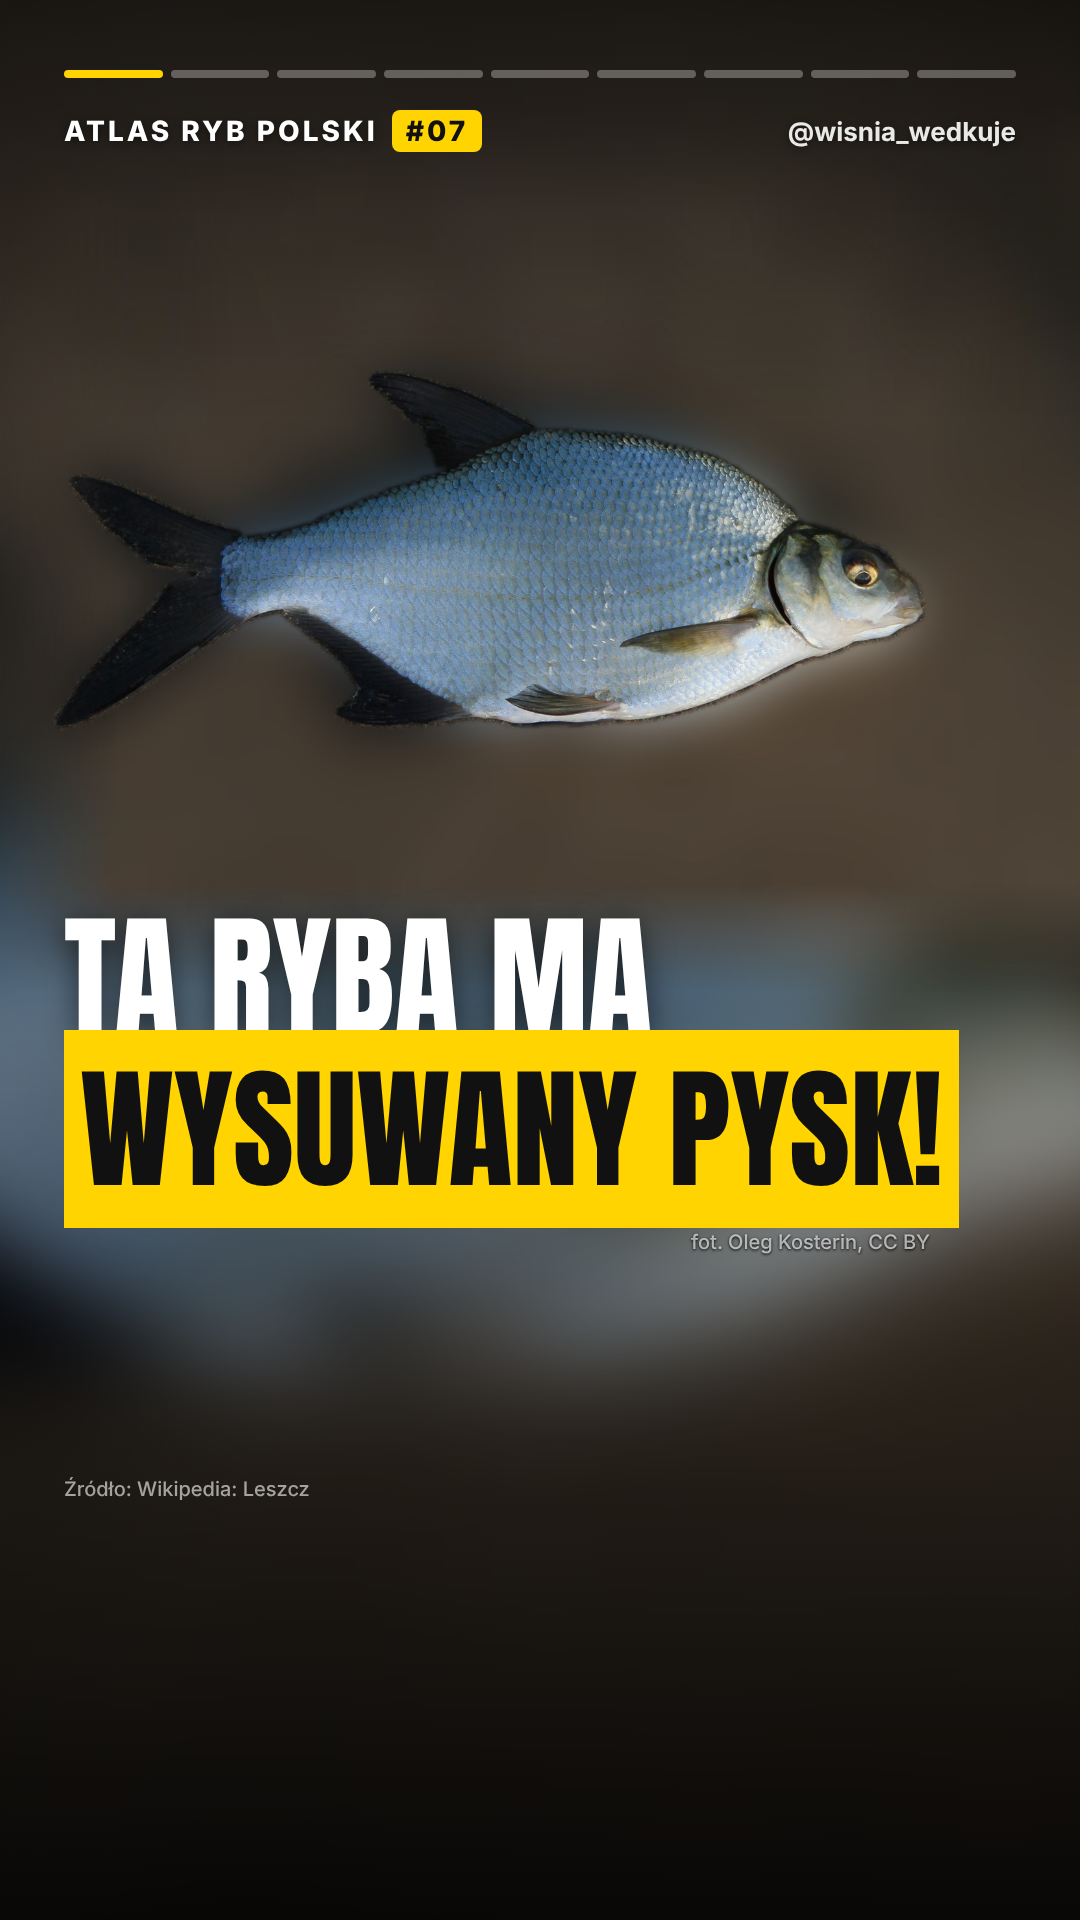
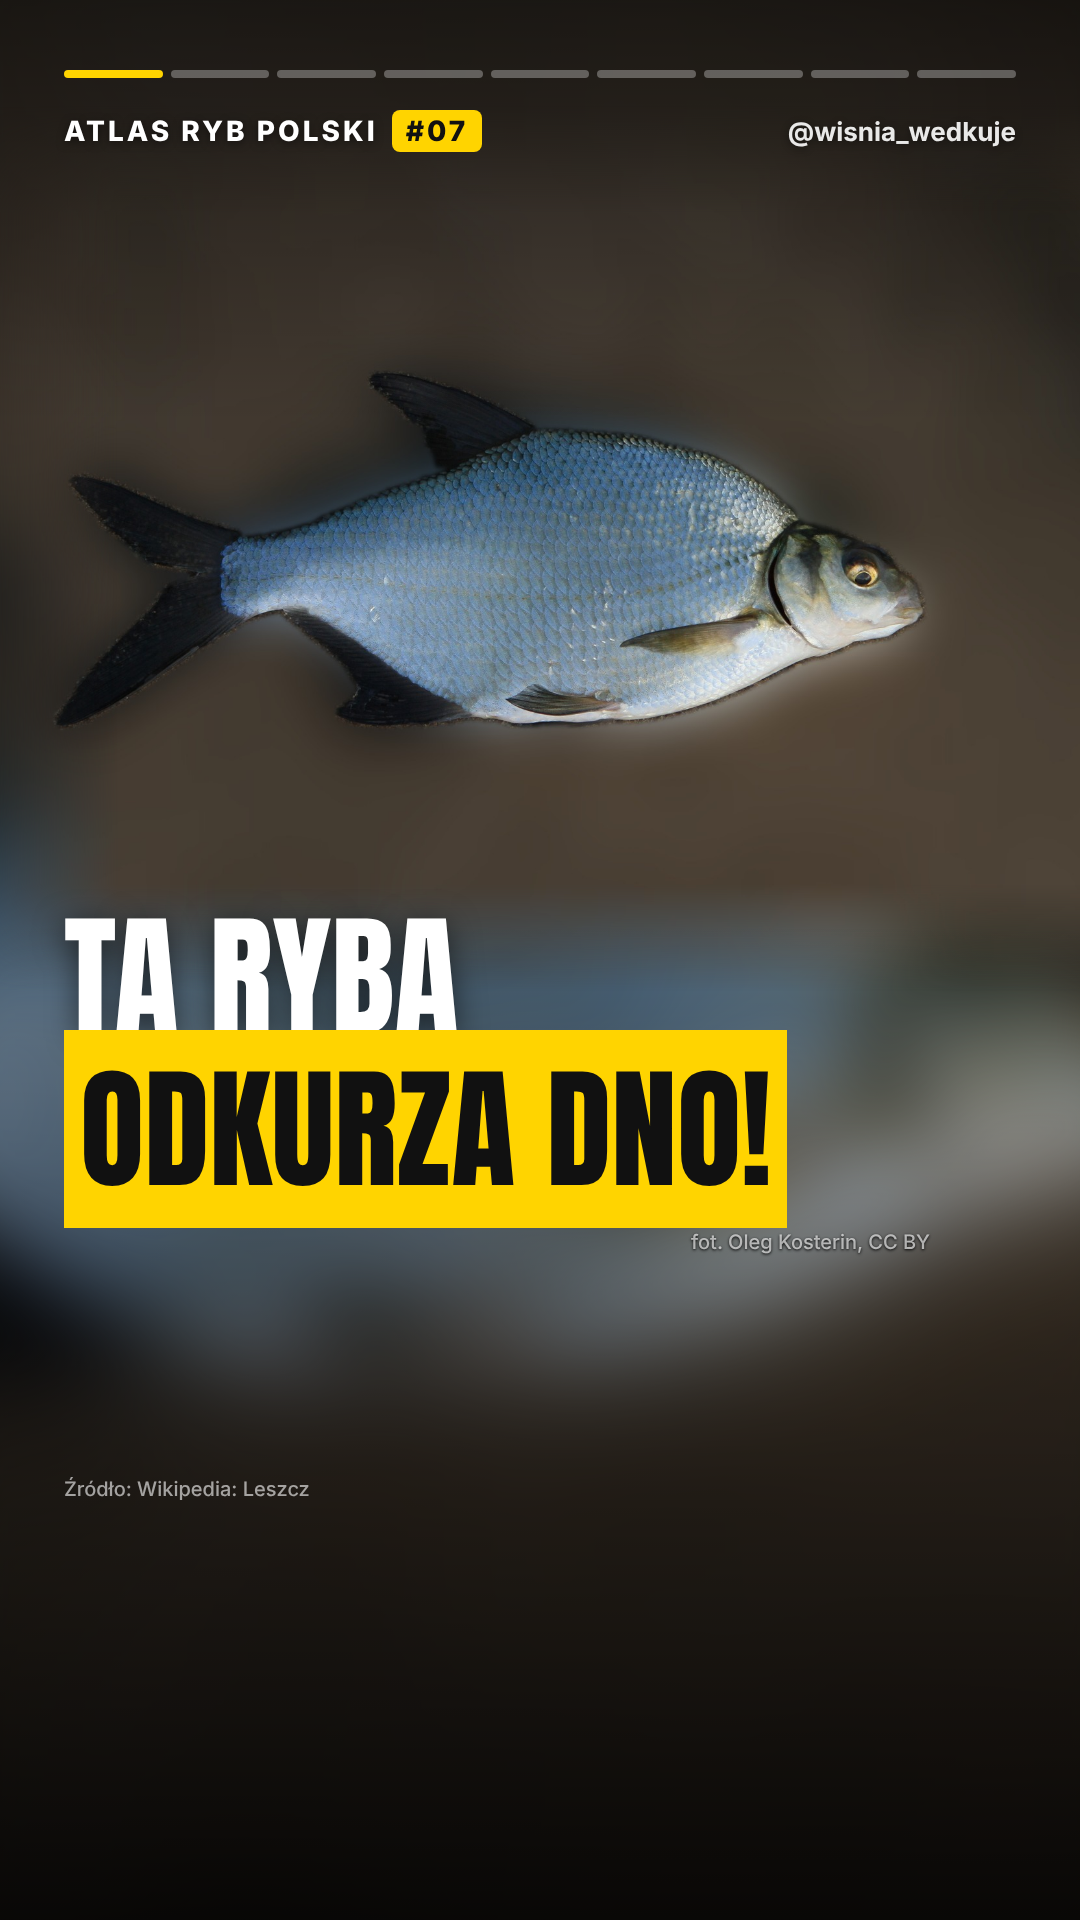
Makieta #07 leszcz: hook „odkurza dno”, ciekawostka o funkcji wysypki tarłowej
Claude-Session: https://claude.ai/code/session_01P9R5v2yPFHwMJVw1yZXoPw

Changed region(s): [[0.0611, 0.4688, 0.8861, 0.6562]]

diff --git a/atlas/scenariusze/leszcz.md b/atlas/scenariusze/leszcz.md
@@ -3,18 +3,18 @@
 Głos: ElevenLabs „JA Paweł”, eleven_v4, jeden wariant. 159 słów.
 
 Warianty hooka (hook-writer):
-1. „Ta ryba ma wysuwany pysk!” (obraz + zaskoczenie) – **wybrany**: widoczna, łatwa do sprawdzenia cecha, ma źródło.
+1. „Ta ryba odkurza dno!” (obraz + zaskoczenie, wersja po uwagach użytkownika) – **wybrany**; wcześniejsza wersja: „Ta ryba ma wysuwany pysk!”.
 2. „Samce tej ryby dostają wysypki” (ciekawość) – jako ciekawostka w scenie 6.
 3. „Ta ryba długo przeżyje bez wody” (FishBase) – odrzucony: zbyt ogólne źródło i niechcący zachęca do trzymania ryby poza wodą.
 
 | # | Klatka | Tekst lektora | Źródło |
 |---|---|---|---|
-| 1 | Hook | Ta ryba ma wysuwany pysk! Leszcz zasysa nim muł z dna, wypluwa go i wybiera z niego jedzenie. | wiki_pl („wysuwalny ryjek”, „zasysa muł, wypluwa go i wyszukuje cząstki pokarmu”) |
+| 1 | Hook | Ta ryba odkurza dno! Leszcz wysuwa pysk jak rurę, zasysa muł, wypluwa go i wybiera z niego jedzenie. | wiki_pl („wysuwalny ryjek”, „zasysa muł, wypluwa go i wyszukuje cząstki pokarmu”) |
 | 2 | Karta | To leszcz, ryba z rodziny karpiowatych i typowy mieszkaniec dna. | wiki_pl („typowy bentosożerca”) |
 | 3 | Rozpoznanie | Wysokie, bocznie spłaszczone ciało, duże łatwo odpadające łuski, długa płetwa odbytowa. | wiki_pl |
 | 4 | Rozmiary | 82 cm, ponad 6 kg, 23 lata. | fishbase (82 cm TL, 6010 g, LongevityWild 23) |
 | 5 | Występowanie | Duże jeziora, nizinne rzeki i zbiorniki zaporowe, przybrzeżna strefa Bałtyku; żyje w dużych stadach. | wiki_pl, fishbase |
-| 6 | Ciekawostka | W czasie tarła u samców pojawia się wysypka tarłowa na głowie i grzbiecie. | wiki_pl |
+| 6 | Ciekawostka | Na tarło samcom wyrastają na głowie twarde guzki z keratyny (jak paznokcie). Prawdopodobnie pobudzają samicę do złożenia ikry i pomagają utrzymać z nią kontakt. | wiki_pl (wysypka tarłowa u samców), wiki_en Nuptial tubercles (keratyna; „used to stimulate females”, „maintain contact during reproduction”; funkcja nie jest definitywnie poznana → „prawdopodobnie”) |
 | 7 | Rekord Polski | 7,52 kg i 76,5 cm – Rafał Rajm, 2021. | ww |
 | 8 | Przepisy | Państwowo brak wymiaru i okresu; na wodach PZW zwykle też brak, ale w wielu okręgach są dzienne limity sztuk. | rozp2023, pzw (Radom 5 szt. pow. 45 cm, Kraków 5 szt., Wałbrzych 3/5 szt.; Gdańsk – limity nie dotyczą leszcza) |
 | 9 | CTA | Zapisz atlas… Następny gatunek: płoć. | – |
@@ -26,7 +26,10 @@ Warianty hooka (hook-writer):
 - **rozp2023**: Dz.U. 2023 poz. 1373 – leszcza nie ma w § 6 ani § 7.
 - **pzw**: dokumenty okręgów Gdańsk 2026, Radom 2026, Kraków 2026, Wałbrzych 2025, Zielona Góra 2025 (w scratchpadzie sprawdzone pdftotext).
 
+- **wiki_en**: https://en.wikipedia.org/wiki/Nuptial_tubercles
+
 ## Celowo pominięte
+- „Wysypka służy do ocierania się” – źródła mówią o pobudzaniu samicy i utrzymaniu kontaktu, ale zaznaczają, że funkcja nie jest pewna; stąd słowo „prawdopodobnie”.
 - „Rekordowy okaz z Finlandii 11,5 kg (1912)” – bez weryfikowalnego źródła.
 - „Może długo przeżyć poza wodą” (FishBase) – zbyt ogólne i niewskazane jako przekaz.
 - Wymiar ochronny w wodach morskich 40 cm (Wikipedia) – rolka dotyczy wód śródlądowych.
